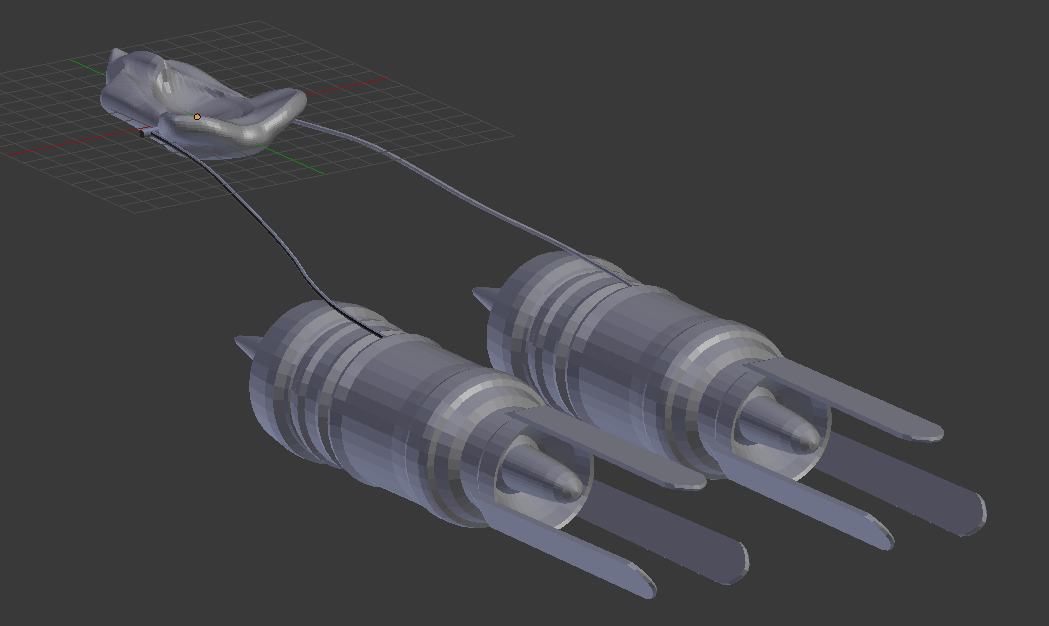
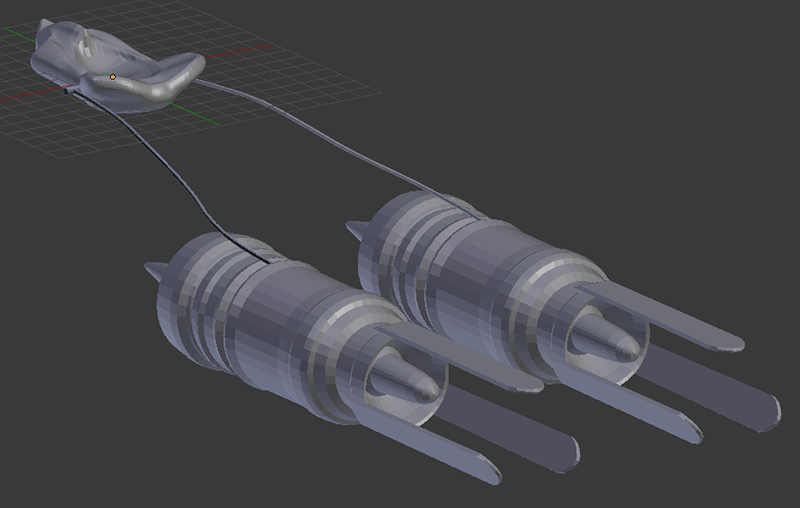
Erratas y redimensión de imágenes closes #5

Changed region(s): [[0.0312, 0.0295, 1.0, 0.8858], [0.5938, 0.8268, 0.75, 0.9449], [0.625, 0.5906, 0.6875, 0.6201]]

diff --git a/docs/P1.md b/docs/P1.md
@@ -16,7 +16,7 @@ Como se puede ver es un modelo bastante complejo pero se puede simplificar en va
 
 ### Cabina
 
-Lo primero que se realizó fue quizás lo más complejo, la cabina, donde se instala el piloto. Se ha simplicado bastante pues no se ha creado ni un modelo del piloto ni los mandos.
+Lo primero que se realizó fue quizás lo más complicado: la cabina donde se instala el piloto. Se ha simplificado bastante pues no se ha creado ni un modelo del piloto ni de los mandos.
 
 Para modelarla se ha partido de una esfera subdividida en 128x64, la cual se ha redimensionado en el eje vertical (en Blender Z). 
 
@@ -42,9 +42,9 @@ Se han eliminado los vértices duplicados y se han editado los extremos para hac
 
 !["motor"](img/P1/motor.png)
 
-Este motor se ha duplicado y para tener tanto el derecho como el izquierdo.
+Este motor se ha duplicado para tener tanto el derecho como el izquierdo.
 
-Posteriormente y siguiendo la misma filosofía de duplicar se han creado las aletas de los motores a partir de un cubo que se ha redimensionado y subdividido en el extremo para generar esa forma curvada que tiene.
+Posteriormente y siguiendo la misma filosofía de duplicar se han creado las aletas de los motores a partir de un cubo que se ha redimensionado y subdividido en el extremo para generar esa forma curvada que tienen.
 
 ### Cables
 
@@ -60,17 +60,18 @@ Dejando este modelo que podría ser el definitivo:
 
 ### Retoques
 
+#### Tamaño de motores
+
 Al comparar el modelo generado con el real nos podemos dar cuenta de una cosa fácilmente: los motores son demasiado grandes. Por lo que lo que el primer retoque que he realizado ha sido el redimensionarlos para que su tamaño en proporción con la cabina sea el más parecido posible al real.
 
-Además se ha creado el haz de luz rosa muy simplificado pues se ha modelado como un cilindro fino.
+#### Rayo de luz de energía
 
-El resultado final ha sido el siguiente.
+Además se ha creado el rayo de luz rosa muy simplificado pues se ha modelado como un cilindro fino.
 
 ## Resultado
 
-El modelo final es bastante parecido al real, pero con las simplificaiones pertinentes:
+El modelo final es bastante parecido al real, pero con las simplificaiones que se han comentado anteriormente:
 
 !["podracer final"](img/P1/podracer-final.png)
 
 Se ha exportado a STL y se ha subido a Sketchfab para que cualquiera lo pueda visualizar desde un navegador. Para ello pulsar en este [enlace](https://skfb.ly/6nKTP).
-
